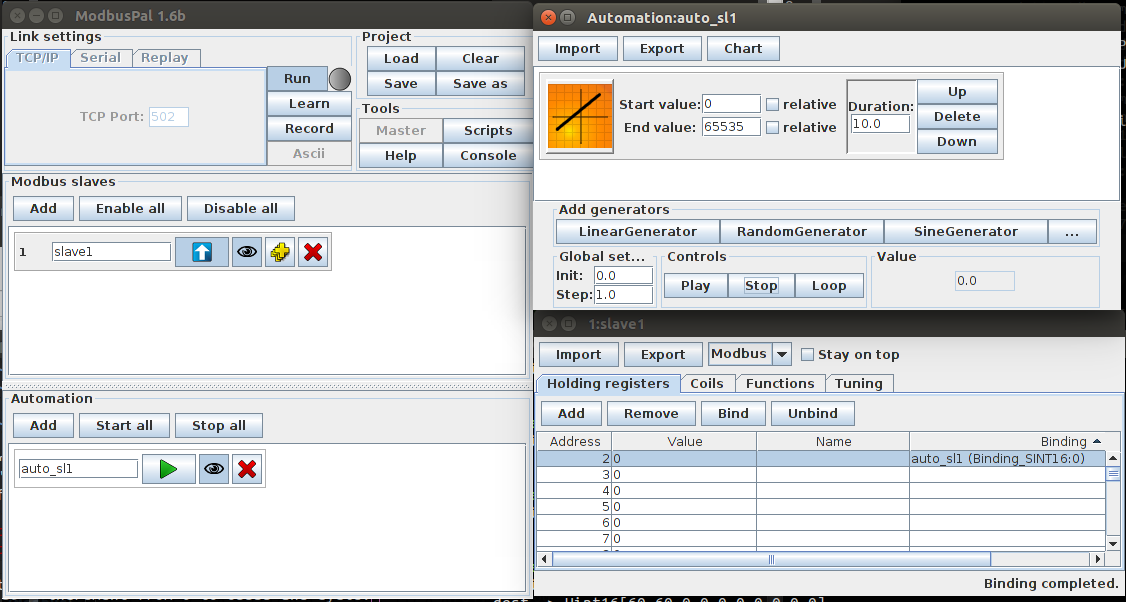
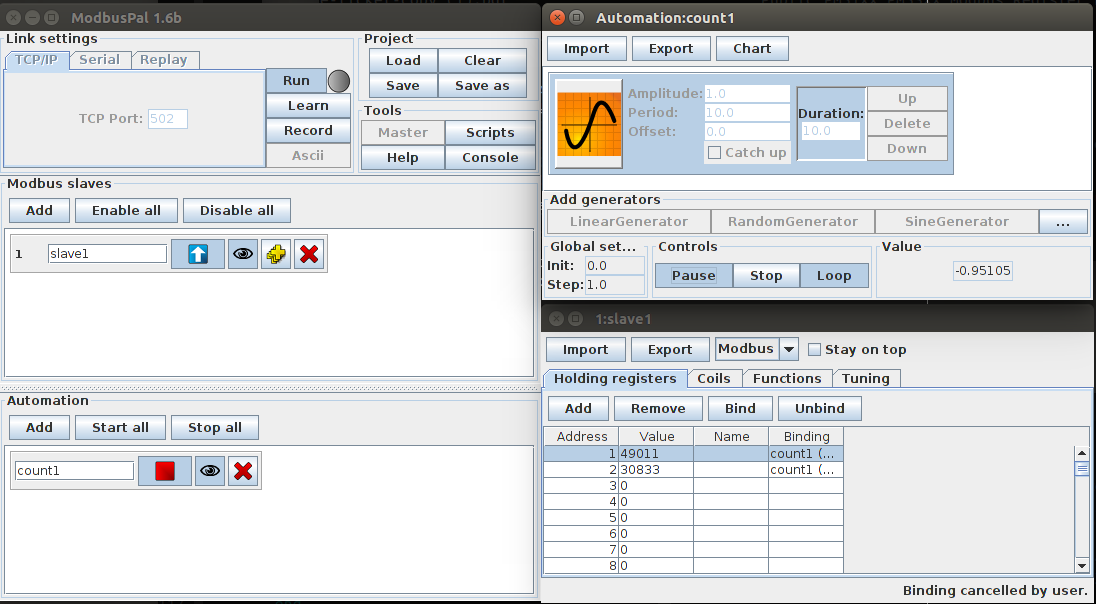
Test with Float32's

Changed region(s): [[0.0, 0.0, 1.0, 1.0], [0.062, 0.1794, 0.1861, 0.2093], [0.2482, 0.9867, 0.2792, 1.0]]

diff --git a/README.md b/README.md
@@ -38,8 +38,8 @@ modbus_free(ctx)
 # Tests
 
 I have used the java program [ModbusPal](http://modbuspal.sourceforge.net/) to
- simulate a slave on localhost. The first registers of the slave is made to
- increment from 0 to 65535 and cycle.
+ simulate a slave on localhost. The first 2 registers (size 16 bit each) of the
+ slave device are bound to a 32 bit float sine wave generated by the automation.
 
 ## ModbusPal setup
 
